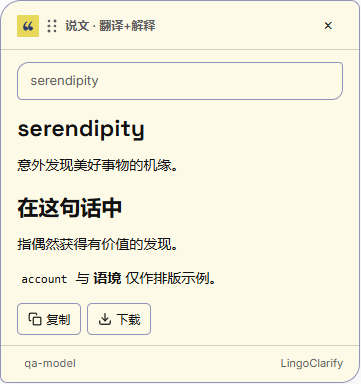
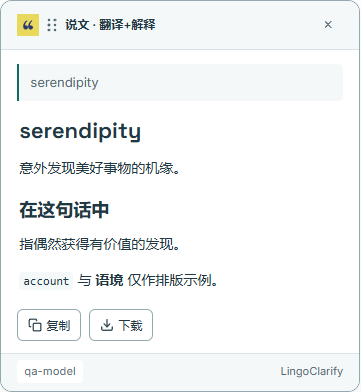
feat: redesign extension UI with three reading directions

diff --git a/popup.css b/popup.css
@@ -1,77 +1,105 @@
-/* 文件职责：设置弹窗布局、390×510px内部滚动、缩放/窄屏适应和控件禁用状态。 */
-/* 蜜桃涂鸦布局；三主题的色彩与字体由 theme.css 提供。 */
+/* 设置弹窗：阅读工作台、390×510px内部滚动与窄屏适应。主题变量见theme.css。 */
 * { box-sizing: border-box; margin: 0; padding: 0; }
 [hidden] { display: none !important; }
-/* 根元素给原生弹窗明确的首选宽度，body在缩放/屏幕限幅时适应实际视口。 */
 html { width: 390px; overflow-x: hidden; }
-body { width: 390px; max-width: 100vw; max-height: 510px; overflow-y: auto; font: 14px/1.5 var(--lc-body-font); color: var(--lc-ink); background: var(--lc-bg); }
-.container { padding: 14px 16px; }
-.brand-header { display: flex; gap: 11px; align-items: center; margin: 0 0 12px; }
-.brand-header .lc-brand-icon { width: 32px; height: 32px; }
-.brand-header > div { min-width: 0; }
-.title { font: 700 24px/1.15 var(--lc-title-font); letter-spacing: -.5px; }
-.brand-subtitle { margin-top: 3px; font: 500 12px/1.5 var(--lc-title-font); white-space: nowrap; }
-.version { font: 400 11px/1.5 var(--lc-body-font); color: var(--lc-muted); margin-left: 5px; }
-.tab-bar { display: flex; gap: 9px; margin: 0 0 12px; }
+body { width: 390px; max-width: 100vw; max-height: 510px; overflow-y: auto; font: 14px/1.5 var(--lc-body-font); color: var(--lc-ink); background: var(--lc-bg); scrollbar-color: var(--lc-border) var(--lc-bg); }
+.container { padding: 20px; }
+.brand-header { display: flex; gap: 12px; align-items: center; margin-bottom: 16px; }
+.brand-header .lc-brand-icon { width: 36px; height: 36px; }
+.brand-header > div { min-width: 0; flex: 1; }
+.title { font: 650 25px/1.2 var(--lc-title-font); letter-spacing: 1px; }
+.brand-subtitle { margin-top: 3px; font-size: 11px; color: var(--lc-muted); }
+.version { margin-left: 6px; font-size: 10px; }
+.brand-caption { margin-bottom: 18px; font-size: 12px; color: var(--lc-muted); }
+.tab-bar { display: flex; gap: 4px; margin-bottom: 18px; padding: 4px; border-radius: 10px; background: var(--lc-soft); }
 button, input, select { font: inherit; }
 button { cursor: pointer; }
-.tab-btn { display: inline-flex; align-items: center; justify-content: center; gap: 7px; flex: 1; min-width: 0; min-height: 36px; padding: 6px 5px; border: 1.5px solid var(--lc-border); border-radius: 5px; background: var(--lc-surface); color: var(--lc-ink); font-size: 13px; white-space: nowrap; }
-.tab-btn svg { width: 16px; height: 16px; fill: none; stroke: currentColor; stroke-width: 1.8; stroke-linecap: round; stroke-linejoin: round; }
-.tab-btn.active { color: var(--lc-on); background: var(--lc-accent); border-color: var(--lc-accent); }
-.tab-btn:hover:not(.active) { background: var(--lc-soft); }
+.tab-btn { display: inline-flex; align-items: center; justify-content: center; gap: 7px; flex: 1; min-width: 0; min-height: 38px; padding: 7px 5px; border: 1px solid transparent; border-radius: 7px; background: transparent; color: var(--lc-muted); font-size: 13px; white-space: nowrap; }
+.tab-btn svg { width: 16px; height: 16px; fill: none; stroke: currentColor; stroke-width: 1.7; stroke-linecap: round; stroke-linejoin: round; }
+.tab-btn.active { color: var(--lc-accent); background: var(--lc-surface); border-color: var(--lc-rule); font-weight: 650; box-shadow: 0 1px 3px var(--lc-shadow); }
+.tab-btn:hover:not(.active) { color: var(--lc-ink); }
 .tab-panel { display: none; }
 .tab-panel.active { display: block; }
-.section { margin-bottom: 12px; }
+.section { margin-bottom: 14px; }
 .field-pair { display: grid; grid-template-columns: minmax(0,1.15fr) minmax(0,1fr); gap: 12px; }
 .field-pair > div { min-width: 0; }
-.label { display: block; margin-bottom: 4px; color: var(--lc-ink); font-size: 12px; font-weight: 600; }
-.label-spaced { margin-top: 16px; }
-.hint { margin-top: 5px; color: var(--lc-muted); font-size: 12px; line-height: 1.6; }
+.label { display: block; margin-bottom: 6px; color: var(--lc-ink); font-size: 12px; font-weight: 600; }
+.hint { margin-top: 6px; color: var(--lc-muted); font-size: 12px; line-height: 1.65; }
 .hint:empty { display: none; }
-.select, .input { display: block; width: 100%; min-height: 36px; padding: 6px 9px; border: 1.5px solid var(--lc-border); border-radius: 5px; color: var(--lc-ink); background: var(--lc-surface); }
-.select:disabled { opacity: .75; cursor: default; }
+.select, .input { display: block; width: 100%; min-height: 38px; padding: 7px 10px; border: 1px solid var(--lc-border); border-radius: 7px; color: var(--lc-ink); background: var(--lc-surface); font-size: 13px; }
+.select { cursor: pointer; }
+.select:disabled { opacity: .65; cursor: default; }
 .input::placeholder { color: var(--lc-muted); opacity: 1; }
 :is(button,input,select):focus-visible { outline: 2px solid var(--lc-accent); outline-offset: 3px; }
-.toggle-label { display: flex; align-items: center; gap: 9px; cursor: pointer; min-height: 24px; }
-.toggle-label input { width: 17px; height: 17px; accent-color: var(--lc-accent); }
+.toggle-label { display: flex; align-items: center; gap: 10px; cursor: pointer; min-height: 34px; }
+.toggle-label input { appearance: none; flex: none; width: 30px; height: 18px; border: 1px solid var(--lc-border); border-radius: 20px; background: var(--lc-soft); cursor: pointer; position: relative; }
+.toggle-label input::after { content: ''; position: absolute; top: 2px; left: 2px; width: 12px; height: 12px; border-radius: 50%; background: var(--lc-muted); }
+.toggle-label input:checked { background: var(--lc-accent); border-color: var(--lc-accent); }
+.toggle-label input:checked::after { left: 14px; background: var(--lc-on); }
 .toggle-text { font-size: 13px; }
-.toggle-label:has(input:disabled) { opacity: .6; cursor: not-allowed; }
+.toggle-label:has(input:disabled) { opacity: .55; cursor: not-allowed; }
 .toggle-label input:disabled { cursor: not-allowed; }
-.key-section { padding: 8px 10px; margin-top: 12px; border: 1.5px solid var(--lc-border); border-radius: 5px 11px 6px 10px; background: var(--lc-soft); }
+#trigger-mode-section { border-top: 1px solid var(--lc-rule); padding-top: 14px; }
+.key-section { padding: 12px; margin-top: 16px; border: 1px solid var(--lc-rule); border-radius: 8px; background: var(--lc-soft); }
 .key-saved { display: flex; flex-wrap: wrap; align-items: center; justify-content: space-between; gap: 8px 12px; font-size: 12px; }
 .key-saved > span, .key-saved .mini-btn { flex-shrink: 0; white-space: nowrap; }
-.key-saved .mini-btn { border: 0; background: transparent; padding: 5px 0 5px 8px; }
-.key-actions { display: flex; gap: 8px; margin-top: 10px; }
-.mini-btn, .fetch-btn { min-height: 30px; padding: 5px 9px; border: 1.5px solid var(--lc-border); border-radius: 5px; color: var(--lc-ink); background: var(--lc-surface); font-size: 12px; }
-.mini-btn:hover:not(:disabled), .fetch-btn:hover:not(:disabled) { background: var(--lc-soft); }
+.key-saved > span { display: inline-flex; align-items: center; gap: 7px; }
+.key-saved > span::before { content: ''; width: 6px; height: 6px; background: var(--lc-success); border-radius: 50%; }
+.key-saved .mini-btn { border: 0; background: transparent; padding: 5px 0 5px 8px; color: var(--lc-accent); }
+.key-actions { display: flex; flex-wrap: wrap; gap: 8px; margin-top: 10px; }
+.mini-btn, .fetch-btn { min-height: 32px; padding: 5px 10px; border: 1px solid var(--lc-border); border-radius: 6px; color: var(--lc-ink); background: var(--lc-surface); font-size: 12px; }
+.mini-btn:hover:not(:disabled), .fetch-btn:hover:not(:disabled) { border-color: var(--lc-accent); }
 button:disabled { opacity: .6; cursor: wait; }
 .fetch-btn { width: 100%; }
 .inline-error { color: var(--lc-error); font-size: 12px; margin-top: 6px; }
 .inline-error:empty { display: none; }
-.connection-link { border: 0; background: transparent; color: var(--lc-accent); padding: 3px 0 12px; font-size: 12px; text-decoration: underline; }
-.save-btn { width: 100%; min-height: 38px; padding: 7px; border: 1.5px solid var(--lc-accent); border-radius: 5px; background: var(--lc-accent); color: var(--lc-on); font-size: 14px; font-weight: 600; }
+.connection-link { border: 0; background: transparent; color: var(--lc-accent); padding: 0 0 14px; font-size: 12px; text-decoration: underline; text-underline-offset: 3px; }
+.save-btn { width: 100%; min-height: 40px; padding: 8px; border: 1px solid var(--lc-accent); border-radius: 7px; background: var(--lc-accent); color: var(--lc-on); font-size: 13px; font-weight: 650; }
 .save-btn:hover { filter: brightness(.94); }
 .status { text-align: center; font-size: 12px; min-height: 18px; margin-top: 8px; }
 .status:empty { min-height: 0; margin-top: 0; }
 .status.success { color: var(--lc-success); }
 .status.error { color: var(--lc-error); }
-.catalog-error { margin-bottom: 16px; padding: 9px 11px; border-left: 3px solid var(--lc-error); border-radius: 5px; background: var(--lc-error-bg); color: var(--lc-error); font-size: 12px; line-height: 1.6; }
-.theme-section { margin-top: 12px; border-top: 1px solid var(--lc-rule); padding-top: 10px; }
-.theme-section .select { min-height: 34px; font-size: 13px; }
-dialog { width: min(336px, calc(100vw - 28px)); margin: auto; border: 1.5px solid var(--lc-border); border-radius: 11px 5px 10px 6px; padding: 20px; color: var(--lc-ink); background: var(--lc-bg); }
-dialog::backdrop { background: #11182766; }
+.catalog-error { margin-bottom: 16px; padding: 10px 12px; border-left: 3px solid var(--lc-error); border-radius: 5px; background: var(--lc-error-bg); color: var(--lc-error); font-size: 12px; line-height: 1.6; }
+.theme-section { display: grid; grid-template-columns: auto minmax(0,1fr); gap: 6px 12px; align-items: center; margin-top: 18px; border-top: 1px solid var(--lc-rule); padding-top: 14px; }
+.theme-section .label { margin: 0; }
+.theme-section .select { min-height: 34px; font-size: 12px; }
+.theme-section .hint { grid-column: 2; margin: 0; font-size: 11px; }
+dialog { width: min(336px, calc(100vw - 28px)); max-height: calc(100vh - 28px); overflow-y: auto; margin: auto; border: 1px solid var(--lc-border); border-radius: 12px; padding: 20px; color: var(--lc-ink); background: var(--lc-bg); box-shadow: 0 16px 48px var(--lc-shadow); }
+dialog::backdrop { background: #142d3d66; }
 dialog h2 { font: 600 21px/1.4 var(--lc-title-font); margin-bottom: 15px; }
-body[data-lc-theme='vellum'] .title { font-weight: 500; font-size: 26px; }
-body[data-lc-theme='vellum'] .brand-subtitle { font-size: 16px; }
+/* 三种取舍：阅读留白、纸页题签、紧凑工具。 */
+body[data-lc-theme='playful'] .title { font-family: 'SimSun', 'Songti SC', serif; font-size: 27px; letter-spacing: 3px; }
+body[data-lc-theme='playful'] .brand-header { border-bottom: 2px solid var(--lc-accent); padding-bottom: 14px; }
+body[data-lc-theme='playful'] .tab-bar { padding: 0; gap: 16px; background: transparent; border-bottom: 1px solid var(--lc-rule); border-radius: 0; }
+body[data-lc-theme='playful'] .tab-btn { border: 0; border-bottom: 2px solid transparent; border-radius: 0; }
+body[data-lc-theme='playful'] .tab-btn.active { border-color: var(--lc-accent); box-shadow: none; background: transparent; }
+body[data-lc-theme='playful'] :is(.select,.input,.save-btn,.key-section) { border-radius: 3px; }
+body[data-lc-theme='vellum'] .container { padding: 16px; }
+body[data-lc-theme='vellum'] .brand-header { margin-bottom: 12px; gap: 10px; }
+body[data-lc-theme='vellum'] .brand-header .lc-brand-icon { width: 30px; height: 30px; }
+body[data-lc-theme='vellum'] .title { font: 650 23px/1.2 var(--lc-title-font); letter-spacing: 0; }
+body[data-lc-theme='vellum'] .brand-caption { display: none; }
+body[data-lc-theme='vellum'] .tab-bar { padding: 0; gap: 0; border: 1px solid var(--lc-border); border-radius: 5px; overflow: hidden; margin-bottom: 14px; }
+body[data-lc-theme='vellum'] .tab-btn { min-height: 34px; border: 0; border-radius: 0; }
+body[data-lc-theme='vellum'] .tab-btn.active { background: var(--lc-accent); color: var(--lc-on); box-shadow: none; }
+body[data-lc-theme='vellum'] .section { margin-bottom: 10px; }
+body[data-lc-theme='vellum'] :is(.select,.input) { min-height: 34px; border-radius: 4px; }
+body[data-lc-theme='vellum'] .key-section { margin-top: 12px; padding: 9px 10px; border-radius: 4px; }
 @media (max-width: 340px) {
-  .container { padding: 14px 12px; }
-  .field-pair { grid-template-columns: minmax(0,1fr); gap: 14px; }
+  .container, body[data-lc-theme='vellum'] .container { padding: 16px 12px; }
+  .field-pair { grid-template-columns: minmax(0,1fr); gap: 12px; }
   .brand-subtitle .version { display: block; margin: 2px 0 0; }
+  .theme-section { grid-template-columns: minmax(0,1fr); }
+  .theme-section .hint { grid-column: 1; }
 }
 @media (max-width: 260px) {
-  .container { padding: 12px 8px; }
+  .container, body[data-lc-theme='vellum'] .container { padding: 12px 8px; }
   .select, .input { font-size: 12px; padding-inline: 6px; }
   .tab-btn { font-size: 12px; gap: 5px; padding-inline: 4px; }
   .tab-btn svg { width: 14px; height: 14px; flex-shrink: 0; }
 }
-@media (prefers-reduced-motion: no-preference) { button { transition: background .15s, color .15s; } }
+@media (prefers-reduced-motion: no-preference) {
+  button { transition: background .15s, color .15s, border-color .15s; }
+  .toggle-label input::after { transition: left .15s; }
+}

diff --git a/theme.css b/theme.css
@@ -1,30 +1,56 @@
-/* 文件职责：钴蓝纸页、蜜桃涂鸦、靛蓝手稿三主题的颜色、字体和共用界面样式。 */
-/* theme.js通过扩展绝对地址注册本地字体；中文使用系统字体。 */
-
-/* 变量只落到扩展自有根元素，不改宿主网页的主题或字体。 */
+/* 三个可切换设计方向；保留旧uiTheme标识，现有配置无需迁移。 */
+/* 变量和组件均限定在扩展根元素；字体由theme.js从本地加载。 */
 .lc-theme {
-  --lc-bg: #fdfae7; --lc-surface: #fdfae7; --lc-soft: #f1efd7;
-  --lc-ink: #111111; --lc-muted: #5c5b60; --lc-accent: #1e2bfa; --lc-on: #fdfae7;
-  --lc-border: #9293bd; --lc-rule: #d4d1c3; --lc-error: #b42318; --lc-error-bg: #fff0e8;
-  --lc-success: #25633e; --lc-shadow: #11111112;
+  --lc-bg: #f5f8f8; --lc-surface: #ffffff; --lc-soft: #e8f0f0;
+  --lc-ink: #203744; --lc-muted: #526973; --lc-accent: #126b63; --lc-on: #ffffff;
+  --lc-border: #93a9ad; --lc-rule: #d8e3e5; --lc-error: #b42318; --lc-error-bg: #fff0ed;
+  --lc-success: #246a48; --lc-shadow: #20374414;
   --lc-body-font: 'LC Inter', 'Segoe UI', 'Microsoft YaHei', sans-serif;
   --lc-title-font: 'LC Space', 'Microsoft YaHei', sans-serif;
   color-scheme: light;
 }
 .lc-theme[data-lc-theme='playful'] {
-  --lc-bg: #f0c8a0; --lc-surface: #f7dec6; --lc-soft: #e8b88e;
-  --lc-ink: #1a1a1a; --lc-muted: #55402f; --lc-accent: #1a1a1a; --lc-on: #f7dec6;
-  --lc-border: #1a1a1a; --lc-rule: #ac7c54;
+  --lc-bg: #f7f2e8; --lc-surface: #fffcf5; --lc-soft: #eee7d8;
+  --lc-ink: #363b30; --lc-muted: #666651; --lc-accent: #536442; --lc-on: #ffffff;
+  --lc-border: #a39e88; --lc-rule: #dcd4c2; --lc-shadow: #48452b14;
   --lc-body-font: 'LC Space', 'Segoe UI', 'Microsoft YaHei', sans-serif;
-  --lc-title-font: 'LC Syne', 'Microsoft YaHei', sans-serif;
+  --lc-title-font: 'LC Cormorant', 'SimSun', 'Songti SC', Georgia, serif;
 }
 .lc-theme[data-lc-theme='vellum'] {
-  --lc-bg: #2a3870; --lc-surface: #343f80; --lc-soft: #3b4787;
-  --lc-ink: #e8d85c; --lc-muted: #ebdfab; --lc-accent: #e8d85c; --lc-on: #2a3870;
-  --lc-border: #a79f76; --lc-rule: #737c9c; --lc-error: #ffb8b2; --lc-error-bg: #483859;
-  --lc-success: #b5ecbf; --lc-shadow: #00000024;
-  --lc-body-font: 'LC Inter', 'Segoe UI', 'Microsoft YaHei', sans-serif;
-  --lc-title-font: 'LC Cormorant', 'SimSun', Georgia, serif;
-  color-scheme: dark;
+  --lc-bg: #f0f3f8; --lc-surface: #ffffff; --lc-soft: #e4eaf4;
+  --lc-ink: #213047; --lc-muted: #52627a; --lc-accent: #2456b8; --lc-on: #ffffff;
+  --lc-border: #94a3bd; --lc-rule: #d4dce9; --lc-shadow: #21304718;
 }
 .lc-brand-icon { display: inline-block; flex: none; width: 40px; height: 40px; background: var(--lc-brand-image) center / contain no-repeat; }
+/* 主题层统一阅读组件外观；content.css负责定位、滚动约束和操作尺寸。 */
+#deepseek-explain-tooltip.lc-theme {
+  background: var(--lc-surface); border: 1px solid var(--lc-border);
+  border-radius: 12px; box-shadow: 0 8px 32px var(--lc-shadow);
+}
+#deepseek-explain-tooltip.lc-theme .ds-header { padding: 9px 16px; background: var(--lc-bg); }
+#deepseek-explain-tooltip.lc-theme .ds-brand { color: var(--lc-ink); font-weight: 600; }
+#deepseek-explain-tooltip.lc-theme .ds-close { color: var(--lc-muted); border-radius: 6px; }
+#deepseek-explain-tooltip.lc-theme .ds-quote {
+  margin: 14px 16px 0; padding: 8px 11px; border: 0; border-left: 2px solid var(--lc-accent);
+  border-radius: 0 5px 5px 0; background: var(--lc-bg); line-height: 1.65;
+}
+#deepseek-explain-tooltip.lc-theme .ds-body { padding: 14px 18px 12px; line-height: 1.85; }
+#deepseek-explain-tooltip.lc-theme .ds-markdown { line-height: 1.85; }
+#deepseek-explain-tooltip.lc-theme .ds-markdown h1 { font-size: 22px; }
+#deepseek-explain-tooltip.lc-theme .ds-markdown h2 { font-size: 18px; }
+#deepseek-explain-tooltip.lc-theme .ds-markdown h3 { font-size: 16px; }
+#deepseek-explain-tooltip.lc-theme .ds-markdown :is(code,pre,th,blockquote) { background: var(--lc-bg); }
+#deepseek-explain-tooltip.lc-theme .ds-markdown pre code { background: transparent; }
+#deepseek-explain-tooltip.lc-theme .ds-actions { padding: 4px 16px 12px; gap: 8px; }
+#deepseek-explain-tooltip.lc-theme .ds-btn { border-radius: 6px; background: var(--lc-surface); }
+#deepseek-explain-tooltip.lc-theme .ds-footer { background: var(--lc-bg); }
+#deepseek-explain-tooltip.lc-theme .ds-reasoning { border: 1px solid var(--lc-rule); border-radius: 6px; background: var(--lc-bg); }
+#deepseek-explain-tooltip.lc-theme[data-lc-theme='playful'] { border-radius: 4px; }
+#deepseek-explain-tooltip.lc-theme[data-lc-theme='playful'] .ds-header { border-bottom: 2px solid var(--lc-accent); }
+#deepseek-explain-tooltip.lc-theme[data-lc-theme='playful'] .ds-markdown :is(h1,h2,h3) { font-family: 'SimSun', 'Songti SC', serif; }
+#deepseek-explain-tooltip.lc-theme[data-lc-theme='vellum'] { border-radius: 6px; }
+#deepseek-explain-tooltip.lc-theme[data-lc-theme='vellum'] .ds-body { padding: 10px 16px; line-height: 1.75; }
+#deepseek-explain-tooltip.lc-theme[data-lc-theme='vellum'] .ds-markdown { line-height: 1.75; }
+#ds-translate-toolbar.lc-theme .ds-tb-panel-content { background: var(--lc-surface); border-radius: 8px; box-shadow: 0 3px 12px var(--lc-shadow); }
+#ds-translate-toolbar.lc-theme[data-lc-theme='playful'] .ds-tb-panel-content { border-radius: 3px; }
+#ds-translate-toolbar.lc-theme[data-lc-theme='vellum'] .ds-tb-panel-content { border-radius: 5px; }

diff --git a/popup.html b/popup.html
@@ -14,6 +14,7 @@
     <span class="lc-brand-icon" aria-hidden="true"></span>
     <div><h1 class="title">说文</h1><p class="brand-subtitle">LingoClarify <span class="version">v4.6.0</span></p></div>
   </header>
+  <p class="brand-caption">读懂一个词，也读懂它所在的世界。</p>
   <p id="catalog-status" class="catalog-error" role="alert" hidden></p>
   <div id="disabled-extension" class="section" hidden>
     <p class="hint">扩展当前已停用。</p>
@@ -152,7 +153,7 @@
   <div id="status" class="status" role="status" aria-live="polite"></div>
   <div class="theme-section">
     <label class="label" for="ui-theme">主题风格</label>
-    <select id="ui-theme" class="select" aria-describedby="theme-status"><option value="cobalt">钴蓝纸页（默认）</option><option value="playful">蜜桃涂鸦</option><option value="vellum">靛蓝手稿</option></select>
+    <select id="ui-theme" class="select" aria-describedby="theme-status"><option value="cobalt">澄净阅读（默认）</option><option value="playful">纸本文笺</option><option value="vellum">精密工具</option></select>
     <p id="theme-status" class="hint" role="status" aria-live="polite">切换后自动保存</p>
   </div>
 </div>

diff --git a/docs/materials/README.md b/docs/materials/README.md
@@ -1,12 +1,12 @@
 # 说文 · LingoClarify 公开材料
 
-取得日期：2026-10-13，北京时间。
+取得日期：2026-10-16，北京时间。
 
-截图由本项目解压加载到隔离Edge后生成，用于README展示当前界面。2026-10-13 三主题任务更新为默认钴蓝纸页与统一引号图标，随后按用户标框调整设置页；当前截图捕获390×510px的body窗口边界，额外内容可内部滚动。页面、模型列表、凭据与回答均为合成测试材料，未使用用户私有网页或真实API Key。
+截图由本项目解压加载到隔离Edge155.0.4283.45后生成，用于README展示三方向UI分支的默认澄净阅读界面。设置截图捕获390×510px的body滚动窗口，额外内容可内部滚动；它不是原生工具栏弹出窗口的截图。页面、模型列表、凭据与回答均为合成测试材料，未使用用户私有网页或真实API Key。
 
 | 文件 | 来源与用途 |
 | --- | --- |
-| `screenshots/settings.png` | 实际扩展设置页，展示说文/LingoClarify标题、解释/翻译标签和配置界面 |
-| `screenshots/result.png` | 合成英语网页中的实际划词浮层，展示品牌、原文与模拟Markdown回答 |
+| `screenshots/settings.png` | 实际扩展设置页，展示说文/LingoClarify标题、用途标签、开关与字段布局 |
+| `screenshots/result.png` | 合成英语网页中的实际划词浮层，展示原文批注、品牌与模拟Markdown回答 |
 
-截图不证明真实供应商生成能力、回答质量或速度。设置截图于2026-10-13更新，原始本机证据为 `artifacts/qa/settings-controls-2026-10-13/deepseek-off.png`，展示默认关闭思考与恢复的划词触发方式；结果截图的原始本机证据为三主题验收的 `cobalt-result.png`。这些生成证据及逐次验收记录仅本地保存；可复用验证方法见 [开发说明](../DEVELOPMENT.md)。
+原始本机证据分别为`artifacts/qa/ui-reading-redesign/cobalt-settings.png`和`cobalt-result.png`（同目录）。截图不证明真实供应商生成能力、回答质量或速度。生成证据及逐次记录仅本地保存；可复用验证方法见[开发说明](../DEVELOPMENT.md)。

diff --git a/README.md b/README.md
@@ -16,7 +16,7 @@ AI Translation & Contextual Explanation for the Web
 - **复制与笔记下载**：复制回答的 Markdown 原文，或下载包含所选原文和回答的 TXT。
 - **解释与翻译分别配置**：两个用途可选择不同厂家、模型和语言；各厂家保存自己的 Key 和模型列表。
 - **自定义接口**：可连接满足兼容协议的第三方网关、聚合服务或本机服务。
-- **三种主题**：钴蓝纸页（默认）、蜜桃涂鸦、靛蓝手稿，设置、划词浮层与全文工具栏同步切换。
+- **三种主题**：澄净阅读（默认）、纸本文笺、精密工具，设置、划词浮层与全文工具栏同步切换。
 
 ## 安装与首次配置
 
@@ -42,7 +42,7 @@ git clone https://github.com/siwenyu1213/LingoClarify.git
 
 截图来自实际 Edge 中的扩展设置页，使用本机模拟接口与合成配置，展示当前界面。
 
-在设置窗口底部选择“主题风格”即可切换外观，选择后自动保存，无需点击“保存设置”。三种主题共用蜜桃涂鸦的布局与引号品牌图标；主题切换不保存正在编辑的 Key、厂家、模型或语言草稿。
+在设置窗口底部选择“主题风格”即可切换外观，选择后自动保存，无需点击“保存设置”。三种主题分别采用青绿阅读布局、纸本页签与紧凑蓝灰布局，共用引号品牌图标；主题切换不保存正在编辑的 Key、厂家、模型或语言草稿。
 
 ## 怎么使用
 
@@ -173,7 +173,7 @@ git diff --check
 | `popup.html` | 提供厂家、模型、语言、思考、触发方式和主题设置控件 |
 | `popup.css` | 管理设置弹窗布局、缩放/窄屏适应及禁用状态 |
 | `popup.js` | 保存设置和Key，查询模型并处理开关联动、错误和草稿 |
-| `theme.css` | 定义三主题颜色、字体与扩展自有界面的共用样式 |
+| `theme.css` | 定义三方向配色、字体、划词批注与全文工具栏外观 |
 | `theme.js` | 保存和同步主题，并加载本地图标与字体 |
 
 ## 许可证
